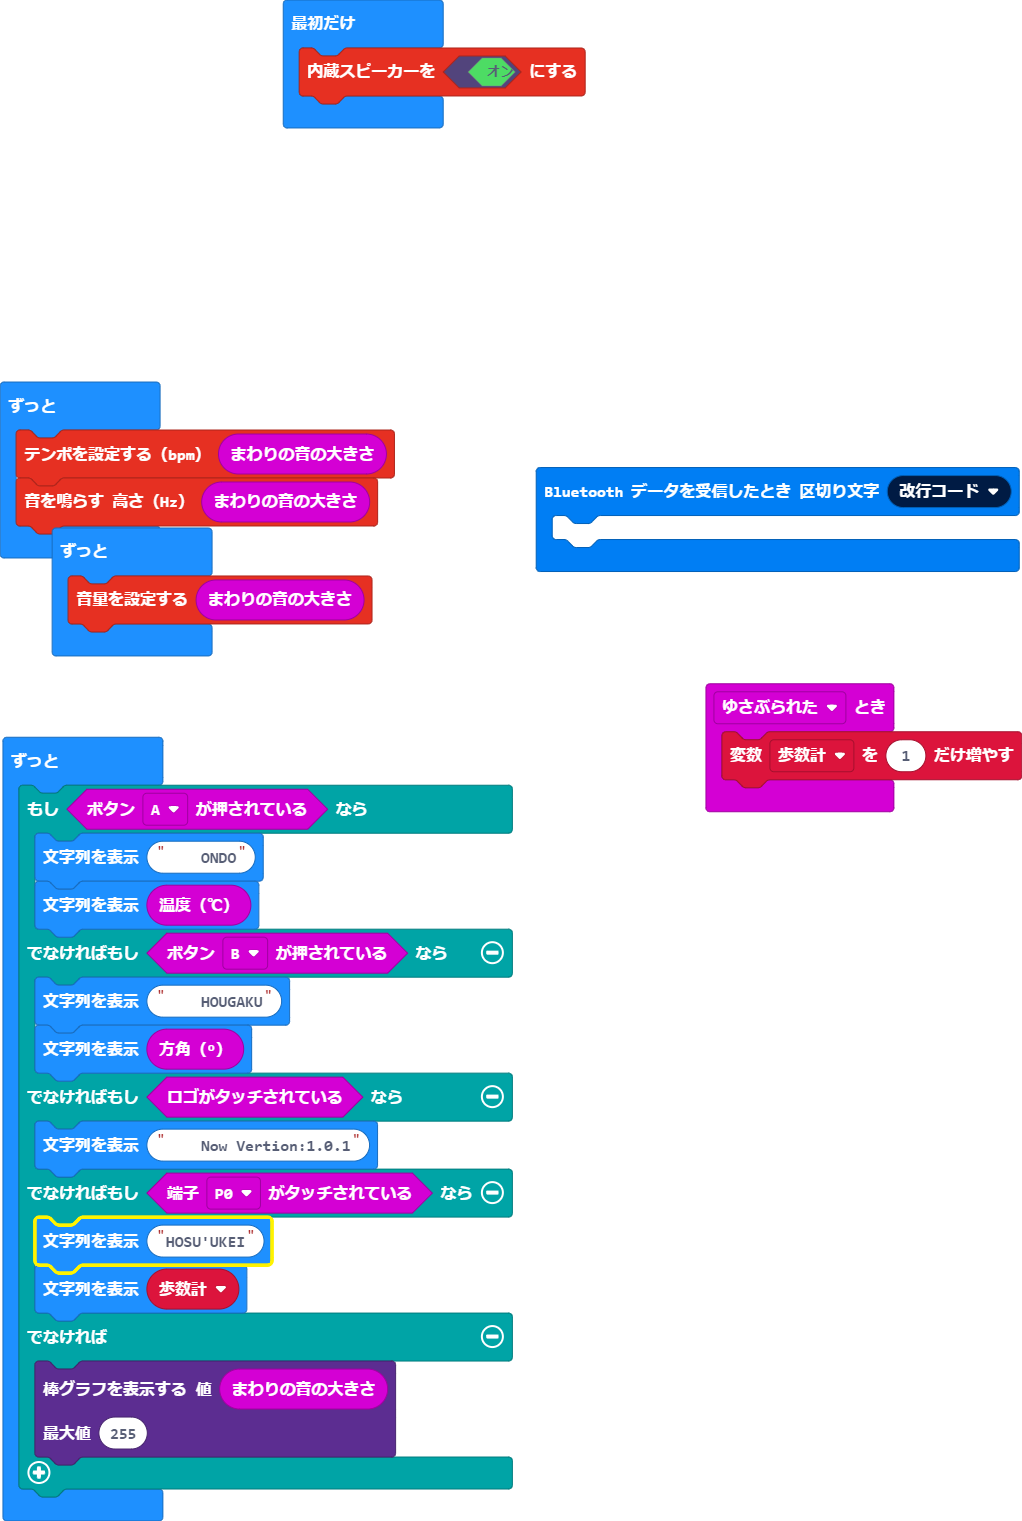
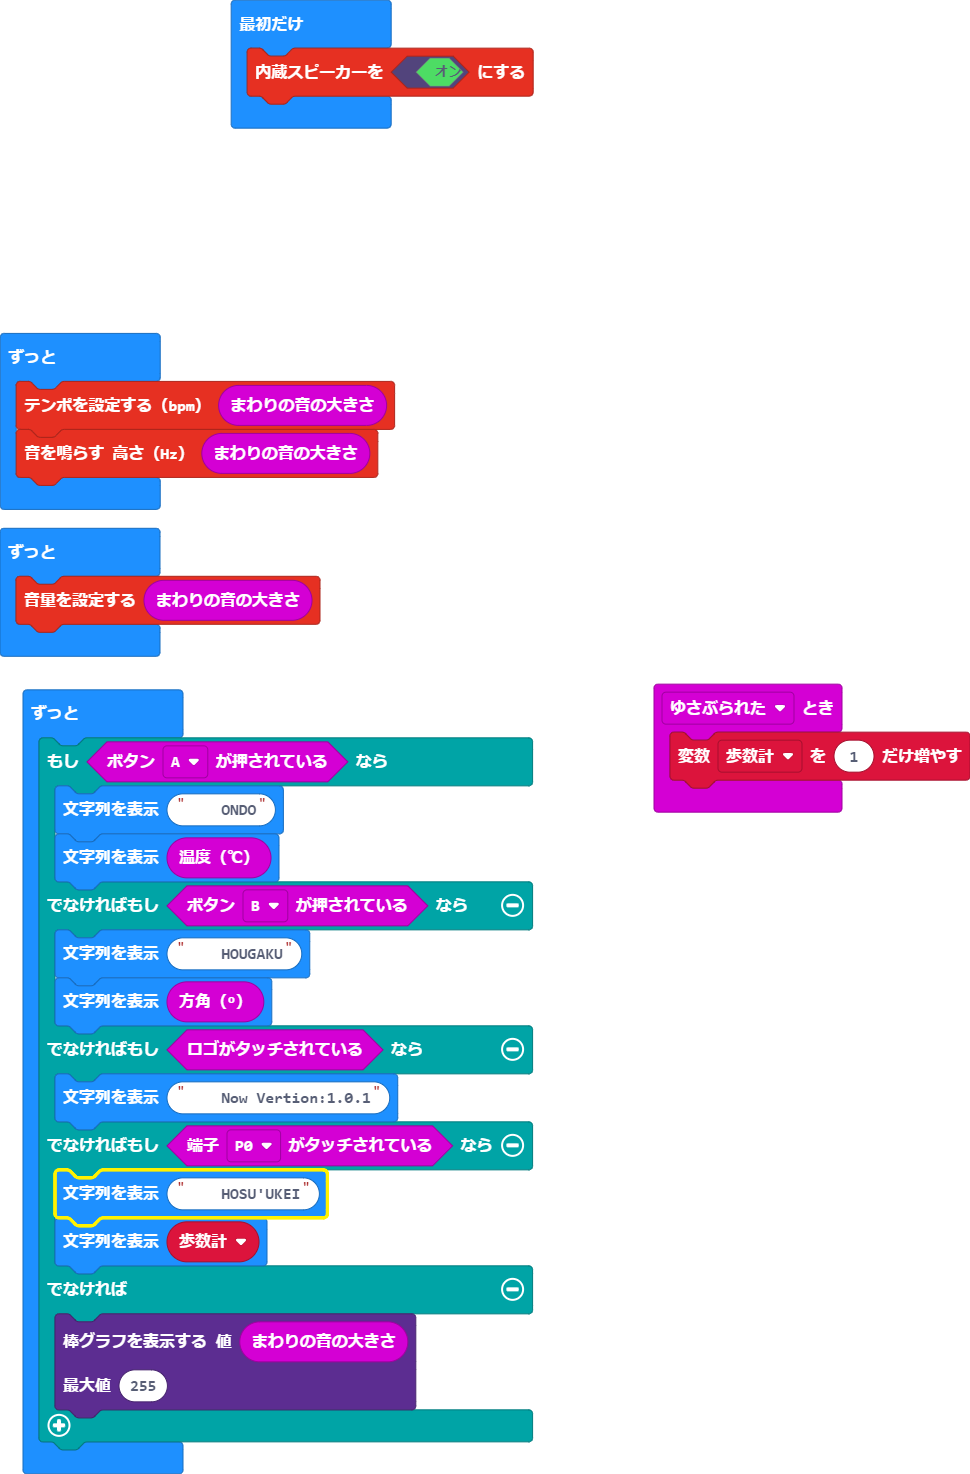
更新 main.blocks, main.ts

diff --git a/main.ts b/main.ts
@@ -1,6 +1,3 @@
-bluetooth.onUartDataReceived(serial.delimiters(Delimiters.NewLine), function () {
-	
-})
 input.onGesture(Gesture.Shake, function () {
     歩数計 += 1
 })
@@ -23,7 +20,7 @@ basic.forever(function () {
     } else if (input.logoIsPressed()) {
         basic.showString("    Now Vertion:1.0.1")
     } else if (input.pinIsPressed(TouchPin.P0)) {
-        basic.showString("HOSU'UKEI")
+        basic.showString("    HOSU'UKEI")
         basic.showString("" + (歩数計))
     } else {
         led.plotBarGraph(
